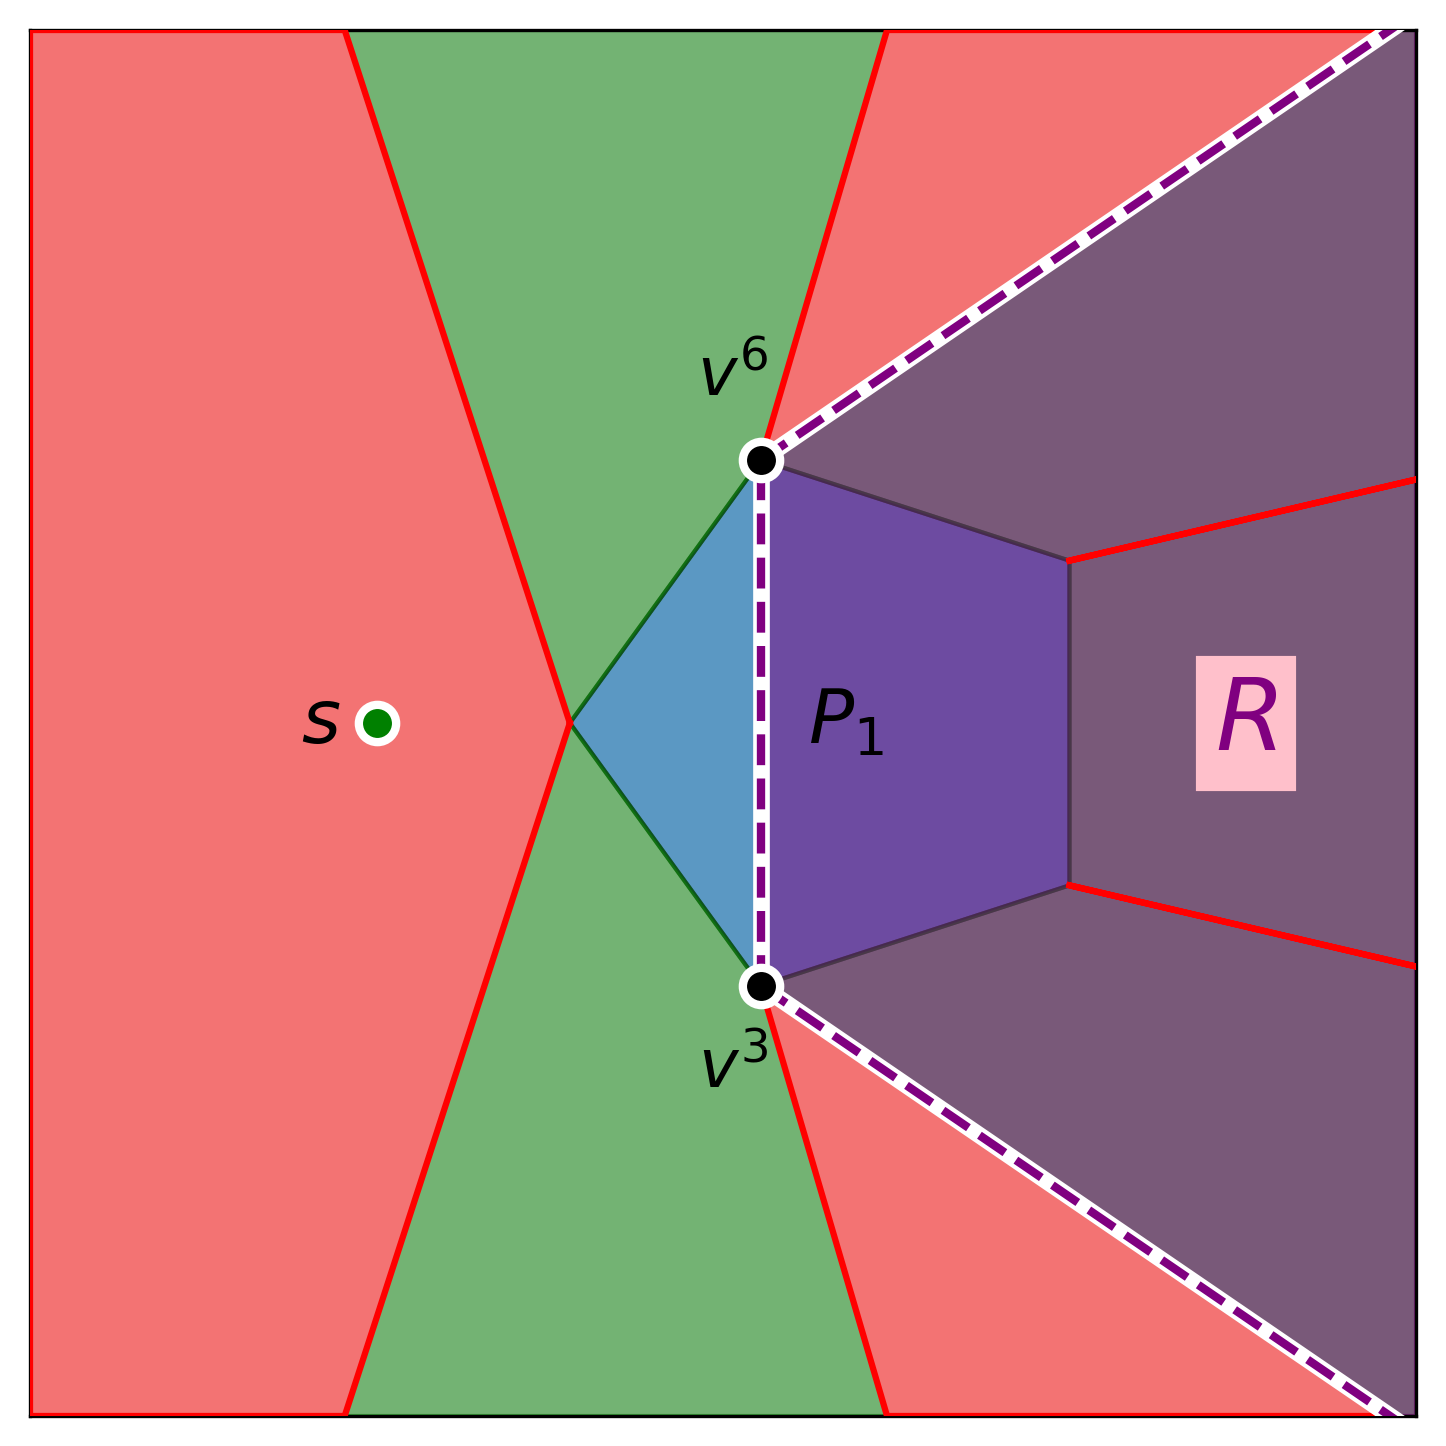
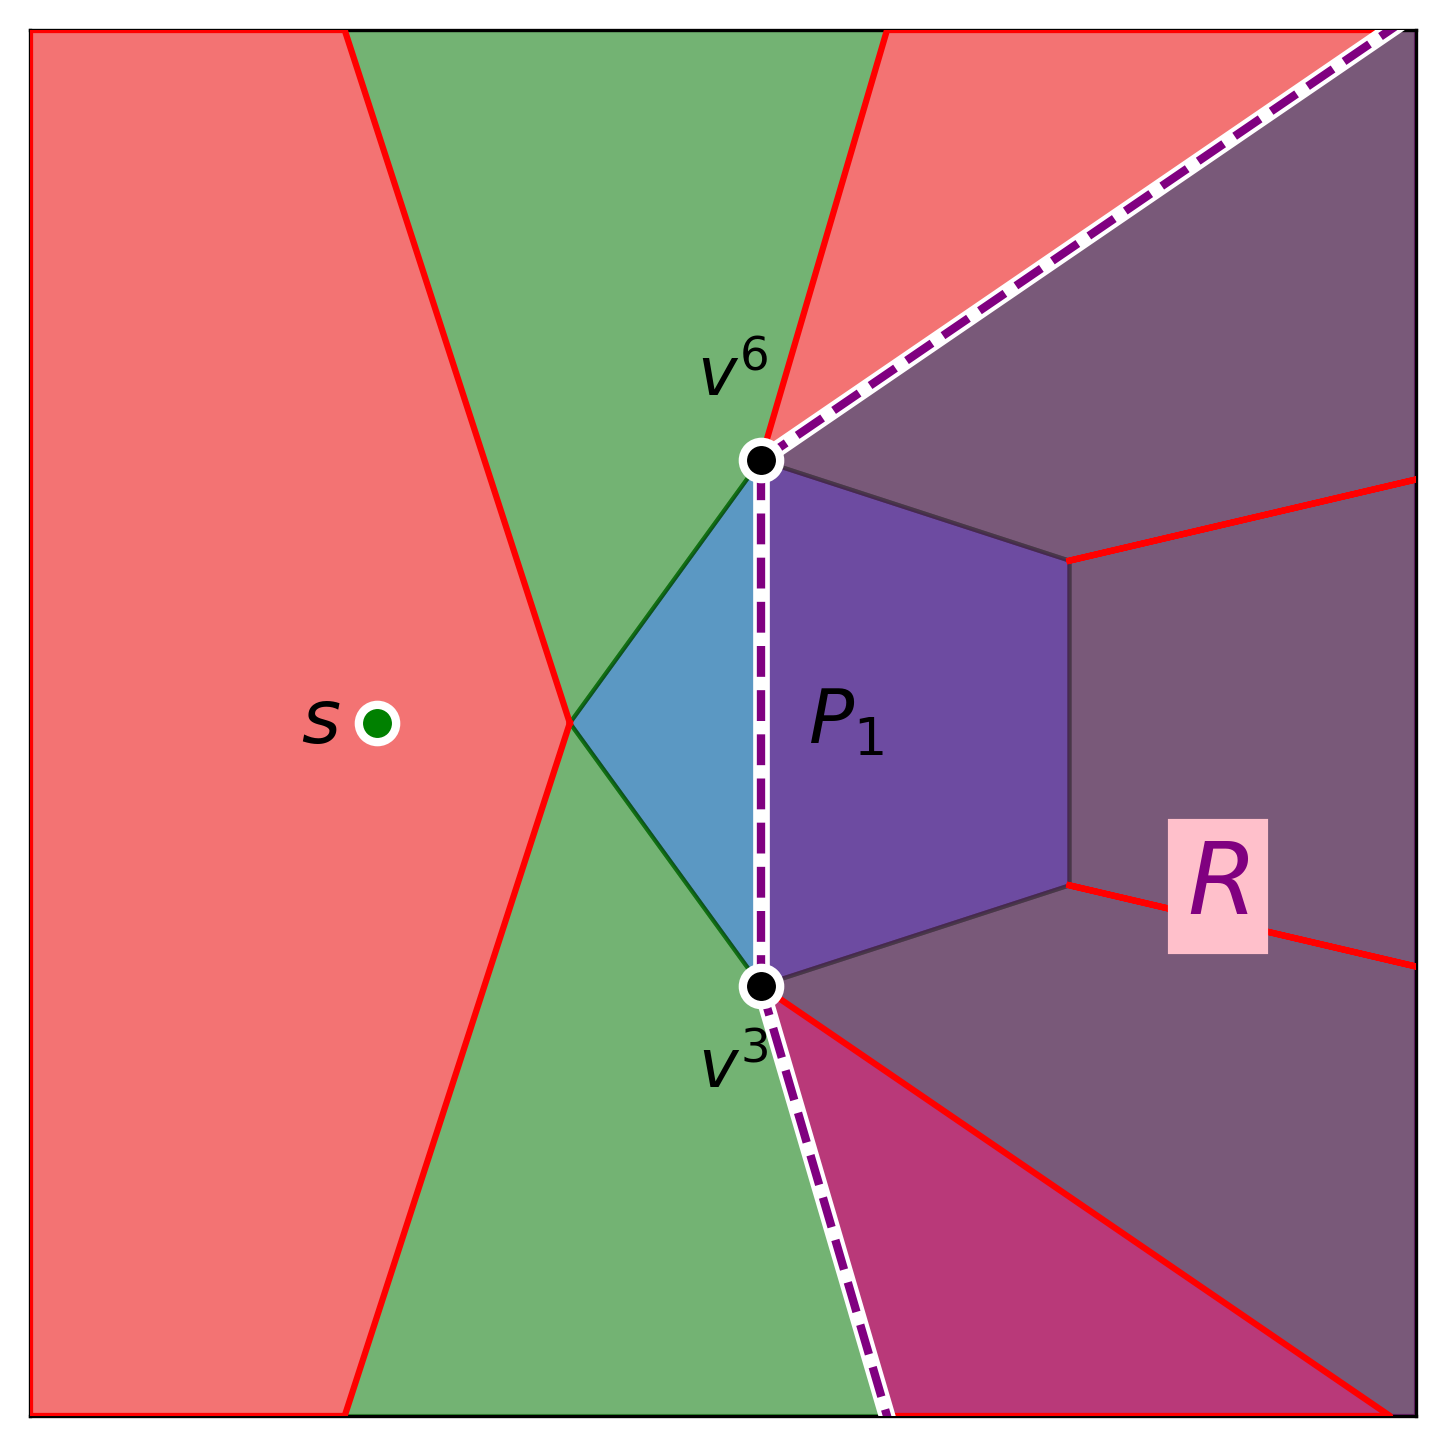
Concluindo segunda abordagem no relatório

Changed region(s): [[0.529, 0.6846, 0.9647, 0.9959], [0.8091, 0.4357, 0.9025, 0.6846]]

diff --git a/Relatório/main.tex b/Relatório/main.tex
@@ -630,50 +630,46 @@ Primeiramente, vamos propor uma nova maneira de interpretar o mapa de último pa
 
 \begin{blockQuote}
 	
-	\textbf{Nova definição de Mapa de Último Passo:} O mapa de último passo~\(S_i\) de um polígono~\(P_i\) \(1 \le i \le k\) é uma partição do plano em regiões associadas a cada vértice de~\(P_i\) e regiões associadas a cada aresta de~\(P_i\).
+	\textbf{Nova definição de Mapa de Último Passo:} O mapa de último passo~\(S_i\) de um polígono~\(P_i\)~\(1 \le i \le k\) é uma partição do plano em regiões associadas a cada vértice de~\(P_i\) e regiões associadas a cada aresta de~\(P_i\).
 
-	A região associada a um vértice~\(v\) de~\(P_i\) é a mesma definida anteriormente se \(v \in T_i\) e é uma semireta que parte de \(v\) e tem a mesma direção de \(v - q\), onde \(q\) é o ponto que precede \(v\) no \((i - 1)\)-path até \(v\), caso contrário.
+	A região associada a um vértice~\(v\) de~\(P_i\) é a mesma definida anteriormente se~\(v \in T_i\) e é uma semireta que parte de~\(v\) e tem a mesma direção de~\(v - q\), onde~\(q\) é o ponto que precede~\(v\) no~\((i - 1)\)-path até~\(v\), caso contrário.
 
 	A região associada a uma aresta~\(e = \overline{uv}\) de~\(P_i\) é o conjunto de pontos que estão do lado externo de~\(e\) e entre o segundo raio associado a~\(u\) e o primeiro raio associado a~\(v\) em~\(S_i\). Os pontos na fronteira de uma região de vértice e aresta pertencem à região de vértice. Os pontos na parte interna da aresta pertencem à região de aresta.
 
-	Finalmente, dizemos que os pontos no interior de~\(P_i\) pertencem à região de atravessar~\(P_i\). Assim, \(S_i\) define uma partição de \(\mathbb{R}^2\).
+	Finalmente, dizemos que os pontos no interior de~\(P_i\) pertencem à região de atravessar~\(P_i\). Assim,~\(S_i\) define uma partição de~\(\mathbb{R}^2\).
 
 	Veja a Figura~\ref{fig:last_step_map-new} para uma ilustração dessa nova definição de mapa de último passo. Note que as regiões associadas a vértices e arestas na região de primeiro contato são as mesmas da definição anterior, enquanto as regiões associadas a vértices e arestas que não estão na região de primeiro contato particionam a região de atravessar~\(P_i\) em regiões associadas a vértices e arestas, respectivamente.
 
 \end{blockQuote}
+
+\begin{figure}[!ht]
+\centering
+	\includegraphics[width=0.5\linewidth]{last_step_map_new.png}
+	\caption{Nova interpretação do mapa de último passo \(S_1\) de um polígono \(P_1\). Representamos as regiões de vértice em vermelho e as de aresta em verde. Note que embora as arestas \(e^3, e^4, e^5\) e vértices \(v^4\) e \(v^5\) não estejam em \(T_1\), eles têm uma região associada.}
+	\label{fig:last_step_map-new}
+\end{figure}
 
 Note que as regiões são definidas da mesma forma para vértices e arestas na região de primeiro contato. Além disso, as regiões de vértice e aresta que não estão na região de primeiro contato cobrem exatamente a região de atravessar~\(P_i\), desconsiderando o interior de~\(P_i\), que não é relevante, uma vez que assumimos que os polígonos são disjuntos. Assim, para calcular o \(i\)-path até um ponto~\(p\), basta localizá-lo em~\(S_i\), se ele está na região de algum vértice ou aresta na região de primeiro contato, prosseguimos como anteriormente, caso contrário, sabemos que~\(p\) está na região de atravessar~\(P_i\) e, portanto, o \(i\)-path até~\(p\) é dado pelo~\((i - 1)\)-path até \(p\). Dessa forma, essa nova definição é equivalente à definição anterior.
 
 O motivo de utilizarmos essa nova definição é que ela garante a seguinte propriedade, que é essencial para a implementação do algoritmo \texttt{LocalizaPonto} utilizando uma estratégia de busca binária:
 
 \begin{blockQuote}
-	\textbf{Arestas Fictícias}: Seja~\(P_i\) um polígono de \(m\) vértices e~\(S_i\) seu mapa de último passo. Além disso, sejam \(v^l\) e \(v^r\) vértices de \(P_i\), com \(1 \le l \le r \le m + 1\), assumindo que os vértices de \(P_i\) estão ordenados em sentido anti-horário e \(v^{m + 1} = v^1\). Dado \(p \in \mathbb{R}^2\), desejamos determinar se existe algum \(l \le j < r - 1\) tal que \(p\) pertence à região associada à aresta \(\overline{v^j v^{j + 1}}\) de \(P_i\) ou existe algum \(l < j < r\) tal que \(p\) pertence à região associada ao vértice \(v^j\) de \(P_i\). 
+	\textbf{Arestas Fictícias}: Seja~\(P_i\) um polígono de \(m\) vértices e~\(S_i\) seu mapa de último passo. Além disso, sejam~\(v^l\) e~\(v^r\) vértices de~\(P_i\), com~\(1 \le l \le r \le m + 1\), assumindo que os vértices de~\(P_i\) estão ordenados em sentido anti-horário e~\(v^{m + 1} = v^1\). Dado~\(p \in \mathbb{R}^2\), desejamos determinar se existe algum~\(l \le j < r - 1\) tal que~\(p\) pertence à região associada ao vértice~\(v^j\) de~\(P_i\) ou à região associada à aresta~\(\overline{v^j v^{j + 1}}\) de~\(P_i\) . 
 	
-	Para tal, poderíamos verificar cada região individualmente, mas isso não é eficiente. No entanto, podemos criar uma \textit{aresta fictícia} entre \(v^l\) e \(v^r\), e usando o segundo raio associado a \(v^l\) e o primeiro raio associado a \(v^r\) em \(S_i\), definindo uma região \(R\) que contém exatamente as regiões associadas às arestas entre \(v^l\) e \(v^r\) e às vértices entre \(v^l\) e \(v^r\) e parte do interior de \(P_i\). Veremos a seguir que a região \(R\) é similar à região de aresta que tratamos anteriormente. Além disso, podemos verificar se \(p\) pertence a \(R\) em tempo \(O(1)\), e \(p\) pertence a \(R\) se e somente se pertence a alguma região de vértice ou de aresta entre \(v^l\) e \(v^r\), pois supomos que \(p\) não está no interior de \(P_i\).
+	Para tal, poderíamos verificar cada região individualmente, mas isso não é eficiente. No entanto, podemos criar uma \textit{aresta fictícia} entre~\(v^l\) e~\(v^r\), e usando o primeiro raio associado a~\(v^l\) e o primeiro raio associado a~\(v^r\) em~\(S_i\), definimos uma região~\(R\) que contém exatamente as regiões associadas às arestas entre~\(v^l\) e~\(v^r\) e aos vértices entre~\(v^l\) e~\(v^r\) e parte do interior de~\(P_i\). Veremos a seguir que a região~\(R\) é similar à região de aresta que tratamos anteriormente. Além disso, podemos verificar se~\(p\) pertence a~\(R\) em tempo~\(O(1)\), e~\(p\) pertence a~\(R\) se e somente se pertence a alguma região de vértice ou de aresta entre~\(v^l\) e~\(v^r\), pois supomos que~\(p\) não está no interior de~\(P_i\).
 
-	Veja a Figura~\ref{fig:fake_edge} para uma ilustração dessa ideia. Criamos uma aresta fictícia entre os vértices \(v^3\) e \(v^6 = v^1\) de \(P_1\) e definimos a região \(R\), que engloba todas as regiões entre eles. Assim, para verificar se existe algum \(3 \le j < 6\) tal que \(p\) pertence à região associada à aresta \(\overline{v^j v^{j + 1}}\) de \(P_1\) ou existe algum \(3 < j < 6\) tal que \(p\) pertence à região associada ao vértice \(v^j\) de \(P_1\), basta verificar se \(p\) pertence a \(R\). Além disso, \(R\) tem a forma de uma região de aresta tradicional, então podemos verificar se \(p\) pertence a \(R\) utilizando o mesmo procedimento do Algoritmo~\algref{alg:locate_point_first_approach}.
+	Veja a Figura~\ref{fig:fake_edge} para uma ilustração dessa ideia. Criamos uma aresta fictícia entre os vértices~\(v^3\) e~\(v^6 = v^1\) de~\(P_1\) e definimos a região~\(R\), que engloba todas as regiões entre eles. Assim, para verificar se existe algum~\(3 \le j < 6\) tal que~\(p\) pertence à região associada à aresta~\(\overline{v^j v^{j + 1}}\) de~\(P_1\) ou existe algum~\(3 < j < 6\) tal que~\(p\) pertence à região associada ao vértice~\(v^j\) de~\(P_1\), basta verificar se~\(p\) pertence a~\(R\). Além disso,~\(R\) tem a forma de uma região de aresta tradicional, então podemos verificar se~\(p\) pertence a~\(R\) utilizando o mesmo procedimento do Algoritmo~\algref{alg:locate_point_first_approach}.
 
 \end{blockQuote}
 
-
 \begin{figure}[!ht]
-\centering
-\begin{minipage}{0.44\textwidth}
 	\centering
-	\includegraphics[width=\linewidth]{last_step_map_new.png}
-	\caption{Nova interpretação do mapa de último passo \(S_1\) de um polígono \(P_1\). Representamos as regiões de vértice em vermelho e as de aresta em verde.}
-	\label{fig:last_step_map-new}
-\end{minipage}
-\hspace{10pt}
-\begin{minipage}{0.44\textwidth}
-	\centering
-	\includegraphics[width=\linewidth]{fake_edge.png}
-	\caption{Criamos uma aresta fictícia entre os vértices \(v^3\) e \(v^6 = v^1\) de \(P_1\) e definimos a região \(R\), que engloba todas as regiões entre eles.}
+	\includegraphics[width=0.5\linewidth]{fake_edge.png}
+	\caption{Criamos uma aresta fictícia entre os vértices \(v^3\) e \(v^6 = v^1\) de \(P_1\), definindo a região \(R\), que engloba todas as regiões dos vértices \(v^3, v^4\) e \(v^5\) e das arestas \(e^3, e^4\) e \(e^5\).}
 	\label{fig:fake_edge}
-\end{minipage}
 \end{figure}
 
-Antes de utilizar essa ideia propriamente, precisamos primeiro ser capazes de determinar se um ponto \(p \in \mathbb{R}^2\) pertence à região \(R\) formada pelo vértice \(u\) com raio associado \(r^1\) e \(v\) com raio associado \(r^2\). Para tal, definimos \(d = v - u\) e dizemos que um raio \(r\) está do \textbf{lado externo} da aresta \(\overline{uv}\) se \(d \times r < 0\) e do \textbf{lado interno} se \(d \times r \ge 0\). Além disso, calculamos as seguintes variáveis booleanas:
+Antes de utilizar essa ideia propriamente, precisamos primeiro ser capazes de determinar se um ponto~\(p \in \mathbb{R}^2\) pertence à região~\(R\) formada pelo vértice~\(u\) com raio associado~\(r^1\) e~\(v\) com raio associado~\(r^2\). Para tal, definimos~\(d = v - u\) e dizemos que um raio~\(r\) está do \textbf{lado externo} da aresta~\(\overline{uv}\) se~\(d \times r < 0\) e do \textbf{lado interno} se~\(d \times r \ge 0\). Além disso, calculamos as seguintes variáveis booleanas:
 
 \begin{enumerate}
 	\item \(c_1 \iff r^1 \times (p - u) \ge 0\)
@@ -681,19 +677,14 @@ Antes de utilizar essa ideia propriamente, precisamos primeiro ser capazes de de
 	\item \(c_3 \iff (v - u) \times (p - u) \le 0\)
 \end{enumerate}
 
-Note que, considerando os 4 casos possíveis para os lados de \(r^1\) e \(r^2\), podemos determinar se \(p\) pertence à \(R\) usando apenas \(c_1, c_2\) e \(c_3\):
+Note que, considerando os 4 casos possíveis para os lados de~\(r^1\) e~\(r^2\), podemos determinar se~\(p\) pertence à~\(R\) usando apenas~\(c_1, c_2\) e~\(c_3\):
 
-\begin{description}
-
-	\item[\(r^1\) e \(r^2\) externos:] \(c_1 \land c_2 \land c_3\). Veja a Figura~\ref{fig:binary_search_cases}(a).
-
-	\item[\(r^1\) e \(r^2\) internos:] \(c_1 \lor c_2 \lor c_3\). Veja a Figura~\ref{fig:binary_search_cases}(b).
-
-	\item[\(r^1\) externo e \(r^2\) interno:] \((c_1 \land c_3) \lor (c_2 \land \lnot c_3)\). Veja a Figura~\ref{fig:binary_search_cases}(c).
-	
-	\item[\(r^1\) interno e \(r^2\) externo:] \((c_1 \land \lnot c_3) \lor (c_2 \land c_3)\). Veja a Figura~\ref{fig:binary_search_cases}(d).
-
-\end{description}
+\begin{enumerate}[label=(\alph*)]
+	\item \textbf{\(r^1\) e \(r^2\) externos:} \(c_1 \land c_2 \land c_3\). Veja a Figura~\ref{fig:binary_search_cases}(a).
+	\item \textbf{\(r^1\) e \(r^2\) internos:} \(c_1 \lor c_2 \lor c_3\). Veja a Figura~\ref{fig:binary_search_cases}(b).
+	\item \textbf{\(r^1\) externo e \(r^2\) interno:} \((c_1 \land c_3) \lor (c_2 \land \lnot c_3)\). Veja a Figura~\ref{fig:binary_search_cases}(c).	
+	\item \textbf{\(r^1\) interno e \(r^2\) externo:} \((c_1 \land \lnot c_3) \lor (c_2 \land c_3)\). Veja a Figura~\ref{fig:binary_search_cases}(d).
+\end{enumerate}
 
 \begin{figure}[!ht]
 	\centering
@@ -729,9 +720,18 @@ Note que, considerando os 4 casos possíveis para os lados de \(r^1\) e \(r^2\),
 
 \end{figure}
 
-Com essas verificações, podemos implementar o algoritmo \texttt{LocalizaPonto} utilizando a estratégia de busca binária, conforme apresentado no Algoritmo~\algref{alg:locate_point_second_approach}. Nesse algoritmo, implementamos a função auxiliar \texttt{VerificaAresta}, responsável por verificar se~\(p\) pertence à região de uma aresta fictícia entre dois vértices~\(u\) e~\(v\), de acordo com os casos discutidos anteriormente. A verificação se~\(p\) pertence à região de vértice de um dado vértice~\(u^{mid}\) é abstraída, pois é idêntica àquela utilizada no Algoritmo~\algref{alg:locate_point_first_approach}.
+Agora que sabemos como verificar se um ponto~\(p \in \mathbb{R}^2\) está em uma região de aresta fictícia~\(R\), podemos usar isso para localizar~\(p\) no mapa de último passo~\(S_i\) de um polígono~\(P_i\). Definindo~\(m = |P_i|\) como o número de vértices de~\(P_i\), dizemos que~\(l_0 = 1\) e~\(r_0 = m + 1\). 
 
-A principal vantagem dessa abordagem é que a busca binária reduz o número de verificações para localizar~\(p\) em~\(S_i\) de~\(O\abs{T_i}\) para~\(O(\log\abs{T_i})\), o que pode representar uma melhoria significativa quando~\(P_i\) possui muitos vértices em~\(T_i\). Analisaremos o impacto dessa modificação com mais detalhes na análise de complexidade.
+\begin{blockQuote}
+	\textbf{Algoritmo de localização:} Dado~\(1 \le i \le k\) e~\(p \in \mathbb{R}^2\) tal que~\(p\) não está no interior de~\(P_i\), queremos encontrar a região de~\(S_i\) que contém~\(p\). 
+	
+	Definimos~\(l_0 = 1\) e~\(r_0 = m + 1\). Para todo~\(i \in \mathbb{N}\), se~\(l_i + 1 \ne r_i\), definimos~\(mid_i = \floor{(l_i + r_i) / 2}\) e verificamos se~\(p\) pertence à região de aresta fictícia entre os vértices~\(v^{l_i}\) e~\(v^{mid_i}\) de~\(P_i\). Se~\(p\) pertence a essa região, definimos~\(r_{i + 1} = mid_i\) e~\(l_{i + 1} = l_i\), caso contrário, definimos~\(l_{i + 1} = mid_i\) e~\(r_{i + 1} = r_i\). 
+	
+	Eventualmente, teremos~\(l_i + 1 = r_i\) para algum~\(i\), e nesse ponto, sabemos que~\(p\) pertence à região associada ao vértice~\(v^{l_i}\) ou à região associada à aresta~\(\overline{v^{l_i} v^{r_i}}\). Então, verificamos se~\(v^{l_i} \in T_i\) e se~\(p\) pertence à região associada ao vértice~\(v^{l_i}\). Se sim, retornamos a região associada a~\(v^{l_i}\). Caso contrário, verificamos se~\(\overline{v^{l_i} v^{r_i}} \in T_i\). Se sim, retornamos a região associada à aresta~\(\overline{v^{l_i} v^{r_i}}\). Caso contrário, retornamos a região de atravessar~\(P_i\).
+
+	Implementamos esse algoritmo de localização no Algoritmo~\algref{alg:locate_point_second_approach}. Note que, para implementar a função \texttt{VerificaAresta}, utilizamos o procedimento descrito anteriormente para verificar se um ponto pertence à região de uma aresta fictícia entre dois vértices.
+
+\end{blockQuote}
 
 \begin{algorithm}[!ht]
 \alglabel{alg:locate_point_second_approach}
@@ -742,63 +742,47 @@ A principal vantagem dessa abordagem é que a busca binária reduz o número de 
 \hrule
 \vspace{0.3em}
 
-\Function {LocalizaPonto(\(p, P_i, T_i, S_i\))} {
+\Function {VerificaAresta(\(u, v, S_i\))} {
 
-	\Function {VerificaAresta(\(u, v\))} {
-		\(r^1 \leftarrow\) segundo raio associado a \(u\) em \(S_i\) \\
-		\(r^2 \leftarrow\) primeiro raio associado a \(v\) em \(S_i\) \\
+	\(r^1 \leftarrow\) segundo raio associado a \(u\) em \(S_i\) \\
+	\(r^2 \leftarrow\) primeiro raio associado a \(v\) em \(S_i\) \\
 
-		\(d \leftarrow v - u\) \\
+	\(c_1 \leftarrow r^1 \times (p - u) \ge 0\) \\
+	\(c_2 \leftarrow r^2 \times (p - v) \le 0\) \\
+	\(c_3 \leftarrow (v - u) \times (p - u) \le 0\) \\
 
-		\If {\(d \times r^1 < 0 \land d \times r^2 < 0\)} {
-			\Return {} \(r^1 \times (p - u) > 0 \land r^2 \times (p - v) < 0 \land (p - u) \times (v - u) < 0\)
-		}
-		\ElseIf {\(d \times r^1 > 0 \land d \times r^2 > 0\)} {
-			\Return {} \(r^1 \times (p - u) \leq 0 \land r^2 \times (p - v) \geq 0 \land (p - u) \times (v - u) \geq 0\)
-		}
-		\ElseIf {\(d \times r^1 < 0 \land d \times r^2 > 0\)} {
-			\If {\((p - u) \times (v - u) < 0\)} {
-				\Return {} \(r^2 \times (p - v) < 0\)
-			}
-			\Else {
-				\Return {} \(r^1 \times (p - u) > 0\)
-			}
+	\(d \leftarrow v - u\) \\
+
+	\If {\((v - u) \times r^1 < 0\)} {
+		\If {\((v - u) \times r^2 < 0\)} {
+			\Return {} \(c_1 \land c_2 \land c_3\)
 		}
 		\Else {
-			\If {\((p - u) \times (v - u) < 0\)} {
-				\Return {} \(r^1 \times (p - u) > 0\)
-			}
-			\Else {
-				\Return {} \(r^2 \times (p - v) < 0\)
-			}
+			\Return {} \((c_1 \land c_3) \lor (c_2 \land \lnot c_3)\)
 		}
 	}
-
-	\(u^1, \dots, u^m \leftarrow\) vértices de \(P_i\) em \(T_i\), ordenados em sentido anti-horário \\
-
-	\If {VerificaAresta(\(u^m, u^1\))} {
-		\Return {} região de atravessar \(P_i\)
+	\Else {
+		\If {\((v - u) \times r^2 < 0\)} {
+			\Return {} \((c_1 \land \lnot c_3) \lor (c_2 \land c_3)\)
+		}
+		\Else {
+			\Return {} \(c_1 \lor c_2 \lor c_3\)
+		}
 	}
-	\If {\(p\) está na região de vértice de \(u^1\)} {
-		\Return {} região associada a \(u^1\)
-	}
+}
 
-	\If {\(p\) está na região de vértice de \(u^m\)} {
-		\Return {} região associada a \(u^m\)
-	}
+\Function {LocalizaPonto(\(p, P_i, T_i, S_i\))} {
+
+	\(v^1, \dots, v^m \leftarrow\) vértices de \(P_i\), ordenados em sentido anti-horário \\
 
 	\(l \leftarrow 1\) \\
-	\(r \leftarrow m\)
+	\(r \leftarrow m + 1\)
 
 	\While {\(l + 1 \ne r\)} {
 
 		\(mid \leftarrow \floor{(l + r) / 2}\)
 
-		\If {\(p\) está na região de vértice de \(u^{mid}\)} {
-			\Return {} região associada a \(u^{mid}\)
-		}
-
-		\If {VerificaAresta(\(u^{l}, u^{mid}\))} {
+		\If {VerificaAresta(\(v^l, v^{mid}, S_i\))} {
 			\(r \leftarrow mid\)
 		}
 		\Else {
@@ -806,10 +790,21 @@ A principal vantagem dessa abordagem é que a busca binária reduz o número de 
 		}
 	}
 
-	\Return {} região associada a aresta \(\overline{u^{l} u^{r}}\)
+	\If {\(v^l \in T_i\) e \(p\) está na região de vértice de \(v^l\)} {
+		\Return {} região associada a \(v^l\)
+	}
+	\ElseIf {\(\overline{v^l v^r} \in T_i\)} {
+		\Return {} região associada a \(\overline{v^l v^r}\)
+	}
+	\Else {
+		\Return {} região de atravessar \(P_i\)
+	}
 }
 
 \end{algorithm}
+
+A principal vantagem dessa abordagem é que a busca binária reduz o número de verificações para localizar~\(p\) em~\(S_i\) de~\(O\abs{T_i}\) para~\(O(\log\abs{P_i})\), o que pode representar uma melhoria significativa quando~\(P_i\) possui muitos vértices em~\(T_i\). Analisaremos o impacto dessa modificação com mais detalhes na análise de complexidade.
+
 \subsection{Terceira Abordagem}
 
 Antes de discutirmos a terceira abordagem, apresentamos a motivação para essa nova implementação do algoritmo \texttt{LocalizaPonto}. Considere o caso de um único polígono~\(P_1\) com um grande número de vértices, por exemplo, um milhão. Pela segunda abordagem, calculamos~\(T_1\), em seguida~\(S_1\) e, finalmente, realizamos uma única consulta ao mapa de último passo~\(S_1\) para localizar o ponto~\(t\). No entanto, essa consulta utiliza no máximo cerca de 20 regiões de vértice de~\(P_1\) para localizar~\(t\) em~\(S_1\). Assim, acabamos calculando aproximadamente 999\,980 regiões de vértice que nunca são utilizadas. Diante disso, na terceira abordagem buscamos empregar uma estratégia de memoização, de modo a calcular apenas as regiões de vértice de~\(P_i\) que são efetivamente necessárias para localizar os pontos consultados no mapa de último passo~\(S_i\).
